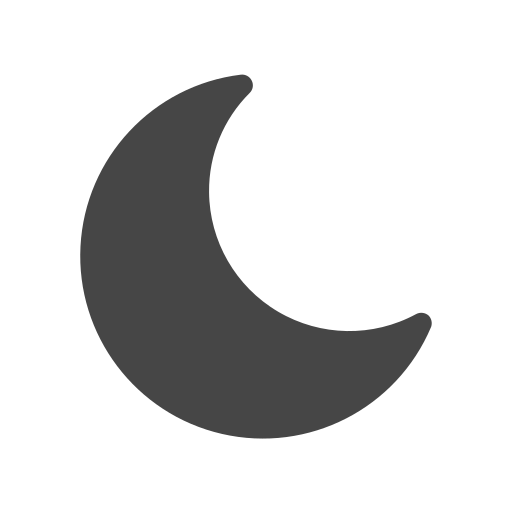
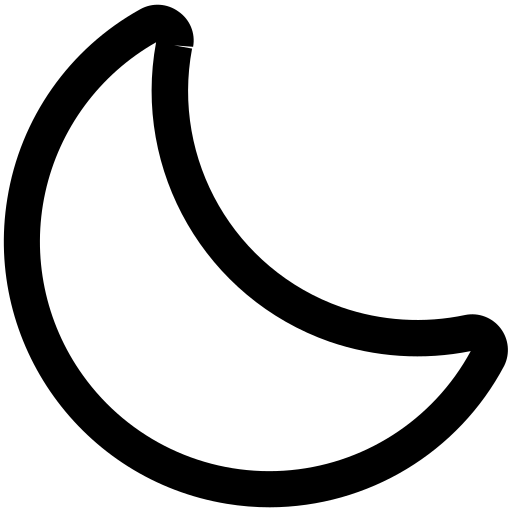
added different pngs for dark mode and a semi operating dark/light mode switcher

diff --git a/style.css b/style.css
@@ -11,6 +11,9 @@
 
  body {
    font-family: 'Poppins', sans-serif;
+   background-color: white;
+   color: black;
+   transition: background-color, color 5s;
  }
 
  html {
@@ -18,14 +21,30 @@
  }
 
  p {
-   color: rgb(red, green, blue);
    font-family: 'Inconsolata', monospace;
  }
 
+ /* Dark MODE */
+ .dark-mode {
+   background-color: #272655;
+   color: white;
+   transition: background-color, color 5s;
+}
 
- /* Sections */
+#toggle {
+   position: absolute;
+   top: 0;
+   right: 0;
+   margin: 10px; /* Adjust this value to add some spacing from the top and right edges */
+   padding: 20px; /* Add padding for better visibility */
+   width: 40px;
+   height: 40px;
+   cursor: pointer;
+}
 
- section {
+ /* Section(s) */
+
+ #profile, #socials, .second {
    padding-top: 4vh;
    height: 96vh;
    margin: 0 18rem;
@@ -75,6 +94,8 @@
    height: 2rem;
 }
 
+
+
 /* Typewriter Animation */
 
 #typewriter {
@@ -118,3 +139,4 @@
    filter: blur(0);
    transform: translateX(0);
 }
+

diff --git a/script.js b/script.js
@@ -5,11 +5,26 @@ function toggleMenu() {
     icon.classList.toggle('open');
 }
 
+var toggle = document.getElementById('toggle');
+
+toggle.onclick = function(){
+    document.body.classList.toggle('dark-mode');
+    if (document.body.classList.contains('dark-mode')){
+        toggle.src = "mode/darkmode.png";
+    }else{
+        toggle.src = "modes/lightmode.png";
+
+    }
+}
+
+
+
+
 function sleep(ms) {
     return new Promise((resolve) => setTimeout(resolve, ms));
 }
 
-const phrases = ['program', 'study', 'sleep'];
+const phrases = ['program', 'study', 'sleep', 'work out'];
 const el = document.getElementById('typewriter');
 
 let sleepTime = 100;
@@ -26,7 +41,7 @@ const writeLoop = async () => {
             await sleep(sleepTime);
         }
 
-        await sleep(sleepTime * 10);
+        await sleep(sleepTime * 27.8);
 
         for (let i = curWord.length; i > 0; i--) {
             el.innerText = curWord.substring(0, i - 1);

diff --git a/index.html b/index.html
@@ -8,6 +8,10 @@
     <link rel="stylesheet" href="mediaqueries.css">
 </head>
 <body>
+    <section id="dark-mode">
+        <img src="modes/lightmode.png" id="toggle" />
+
+    </section>
     <section id="profile">
         <div class="section-text">
             <h1 class="title">hi, i'm Jacob <span id="emoticon">🐻</span></h1>
@@ -53,6 +57,6 @@
             <p>no peeking, i'm in development 👀</p>
         </div>
     </section>
-    <script src="script.js"></script>
+    <script src="script.js" defer></script>
 </body>
 </html>
